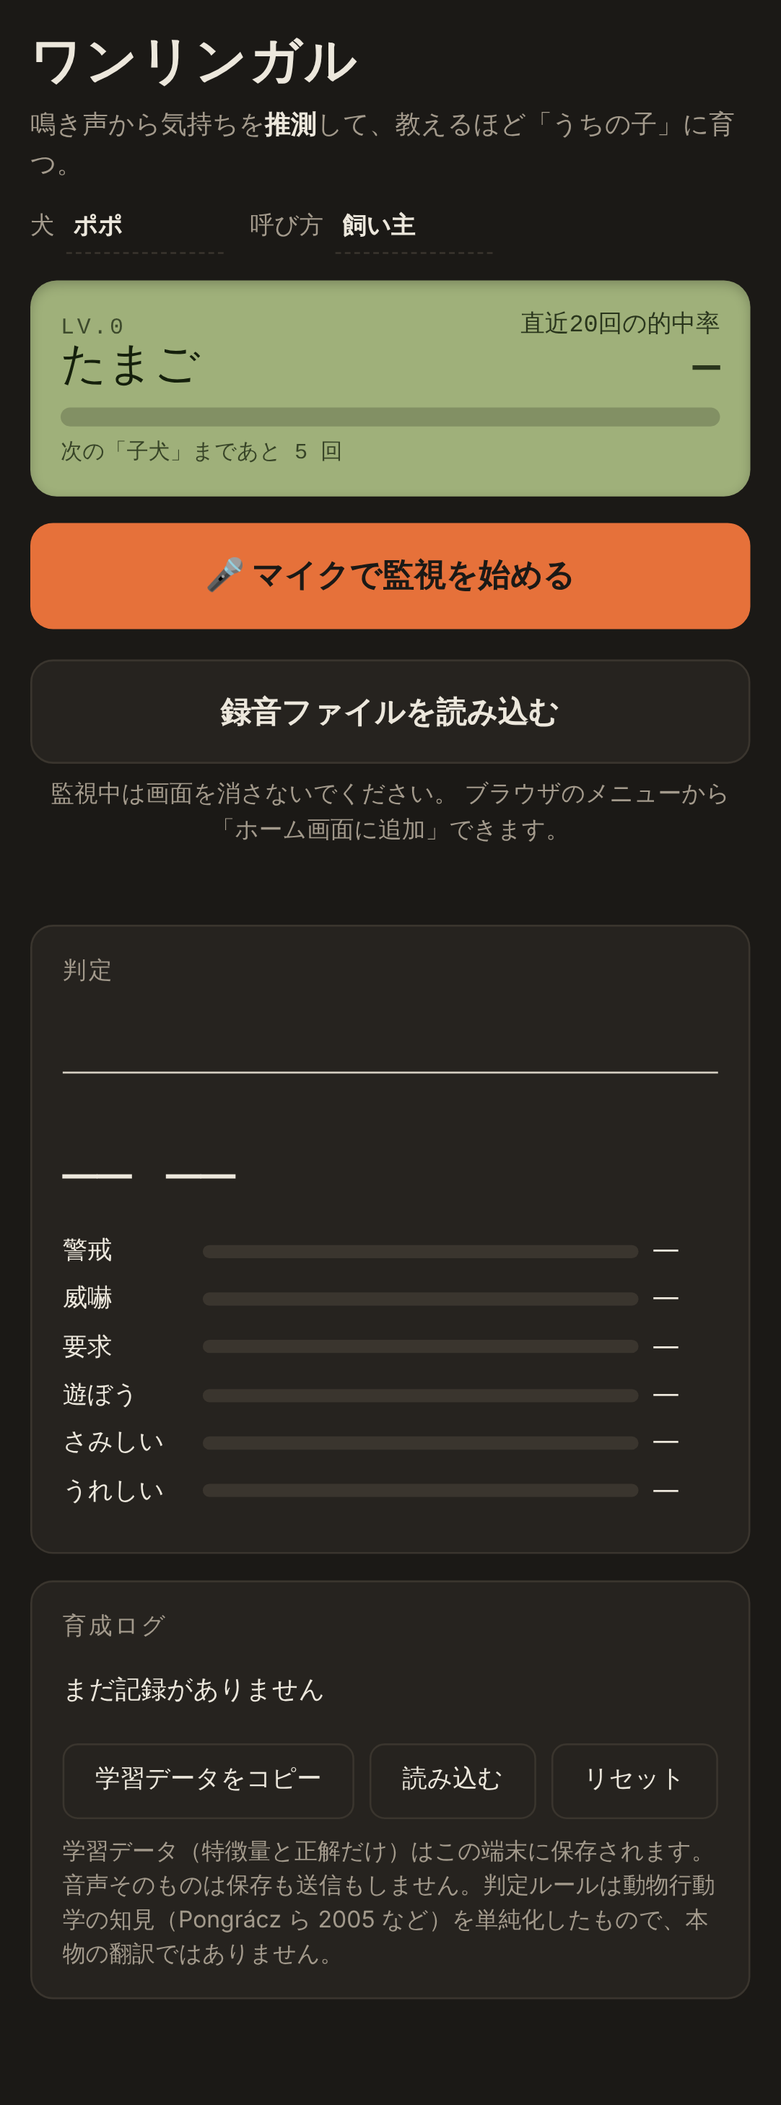
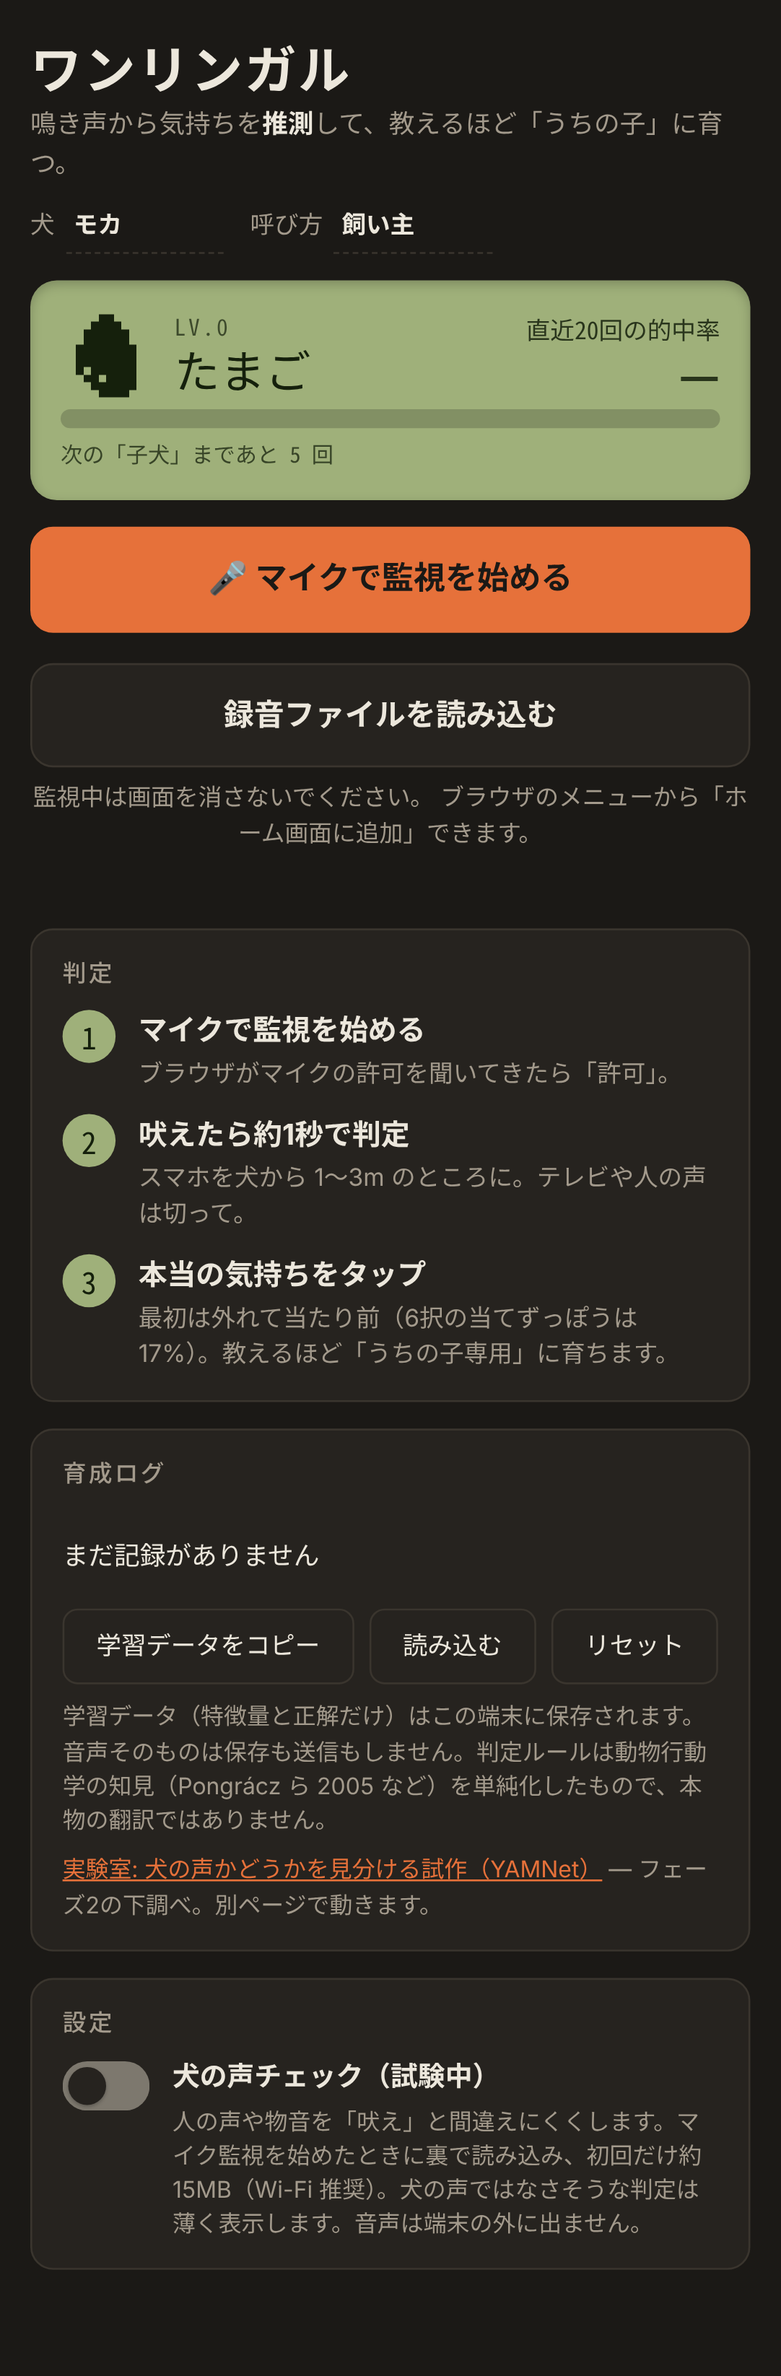
#13b: CC0 5 本の声 1 回ごとの f0・cent・level の表を lab-yamnet に追加。docs/screenshots を E2E の絵で撮り直し（npm run shots、plan #24）
- tests/lab/report.mjs: eventToneReport（f0 が取れた割合・低い/高い・f0 の幅・cent・level dBFS・最大の声からの dB 差）。features-check.mjs の events に level を追加。単体テスト 1 本
- tools/screenshots.mjs + npm run shots: tests/e2e/screenshots/ の絵を docs/screenshots/ にコピー（同じ絵は触らない）。単体テスト 2 本
- tests/e2e: 判定テストで #result の要素スクリーンショット（*-why.png）
- docs/screenshots: 7 枚を「なぜ」・設定トグル入りのいまの画面で更新
- docs/plan.md（#13b、#24）、README、日報 2026-11-13。app/ は無変更（sw.js は wl-v13 のまま）

Claude-Session: https://claude.ai/code/session_01Dz83ZX8t6NGVAwRCujxcXK

diff --git a/docs/plan.md b/docs/plan.md
@@ -38,7 +38,7 @@
 | 11 | CC ライセンスの犬の鳴き声データセット洗い出し | 完了 | `docs/datasets.md`。商用で使えるのは CC0/CC BY のみ。気持ちラベル付きの公開データは実質なし |
 | 12 | 最初の「本物の犬」を本体の判定に通す | 一部完了 | ESC-50 dog 40 本で吠え検出 40/40、特徴量の分布を `docs/accuracy.md` に記録（`tests/lab/features-check.mjs`）。CC0 5 本（pet-decoder-audio-fixtures）はこの作業環境から HF に届かないので Actions 側で取得・実行。NC のデータはリポジトリに入れない（`tests/lab/data/` は gitignore） |
 | 13 | MFCC を特徴量に追加 | 未 | 本物の犬データが数十件たまってから効果を測る |
-| 13b | ルールの見直し（本物 40 本の分布から） | 未（机上確認 2026-11-11、CC0 5 本の長さ・間隔の表 2026-11-12 を追加） | **2026-11-12**: `lab-yamnet` の `features-check.mjs` に、CC0 5 本（くんくん・うなり・息・大型犬・小型犬）の **声 1 回ごとの長さと間隔の分布**（中央値・25–75%、いまの境目 長い ≥710ms／短い ≤590ms／間隔 短い ≤300ms／ゆったり ≥880ms を超える割合、最長）の表を足した（`report.mjs` の `eventDistReport`、単体テスト 1 本）。**同夜の結果（run 43078050401、`docs/accuracy.md` 2026-11-12）: くんくんは 1 回 85ms（最長 309ms）、うなりは 176ms（最長 448ms）で、どちらも吠えより長くない。「長い ≥710ms」に入るのは息の 1 塊（859ms）だけ。→ 長さの境目を寄せても さみしい・威嚇 は出せない。さみしい（クーン声）は長さではなくピッチの動きや音量の小ささ、威嚇はピッチの低さ（うなり 307Hz）で拾う方向。数字を動かすのは正解ラベルが来てから（#13 の MFCC と一緒に）。** 本物の連吠えは間隔がばらつく（gapCv 中央値 0.58）ので「規則的→要求」がほぼ出ない。正解ラベル付きデータが来てから直す。**2026-11-11 の机上確認**（`docs/accuracy.md` 同日）: 本物の分布に合わせた乱数 2 万件で「なぜ」に出る言葉を数えると、**「1回が短い声」が 89%** に出て、「間隔が短い／ゆったり／そろっている」は合わせて 28% しか出ない（本物の間隔 300〜880ms は、短い・ゆったりのどちらにも入らない空白地帯）。「1回が長い声」は 0%（長い＝710ms 以上は本物の吠えにはほぼ無い）ので、ルールだけでは さみしい 0%・威嚇 1% にしかならない（ESC-50 の実測 1/40・1/40 と一致）。直すときの候補: 長さの境目（いま 0.35〜0.95 秒）と間隔の境目（短い ≤300ms／ゆったり ≥880ms）を本物の分布（145ms、509ms）の前後に寄せる。数字は正解ラベルが来てから |
+| 13b | ルールの見直し（本物 40 本の分布から） | 未（机上確認 2026-11-11、CC0 5 本の長さ・間隔の表 2026-11-12、ピッチ・明るさ・音量の表 2026-11-13 を追加） | **2026-11-13**: `features-check.mjs` に、CC0 5 本の **声 1 回ごとの f0・cent・level の分布**（`report.mjs` の `eventToneReport`、単体テスト 1 本）を足した。f0 が取れた割合、f0 の中央値・25–75%、「声が低い ≤320Hz」「声が高い ≥590Hz」に入る割合、f0 の幅（25–75% の差＝ピッチの動きの代わり）、cent と「こもった ≤1300／明るい ≥1600」、level（dBFS）と **同じファイルのいちばん大きい声から何 dB 下か**（録音ごとに音量の基準が違うので、ファイル間ではなくファイル内の大小のばらつきを見る）。`features-result.json` の `events` に `level` を追加。結果は次の `lab-yamnet` run（この push で起動）に出るので、2026-11-14 の日報で `docs/accuracy.md` に写す。判定の数字は変えていない。**2026-11-12**: `lab-yamnet` の `features-check.mjs` に、CC0 5 本（くんくん・うなり・息・大型犬・小型犬）の **声 1 回ごとの長さと間隔の分布**（中央値・25–75%、いまの境目 長い ≥710ms／短い ≤590ms／間隔 短い ≤300ms／ゆったり ≥880ms を超える割合、最長）の表を足した（`report.mjs` の `eventDistReport`、単体テスト 1 本）。**同夜の結果（run 43078050401、`docs/accuracy.md` 2026-11-12）: くんくんは 1 回 85ms（最長 309ms）、うなりは 176ms（最長 448ms）で、どちらも吠えより長くない。「長い ≥710ms」に入るのは息の 1 塊（859ms）だけ。→ 長さの境目を寄せても さみしい・威嚇 は出せない。さみしい（クーン声）は長さではなくピッチの動きや音量の小ささ、威嚇はピッチの低さ（うなり 307Hz）で拾う方向。数字を動かすのは正解ラベルが来てから（#13 の MFCC と一緒に）。** 本物の連吠えは間隔がばらつく（gapCv 中央値 0.58）ので「規則的→要求」がほぼ出ない。正解ラベル付きデータが来てから直す。**2026-11-11 の机上確認**（`docs/accuracy.md` 同日）: 本物の分布に合わせた乱数 2 万件で「なぜ」に出る言葉を数えると、**「1回が短い声」が 89%** に出て、「間隔が短い／ゆったり／そろっている」は合わせて 28% しか出ない（本物の間隔 300〜880ms は、短い・ゆったりのどちらにも入らない空白地帯）。「1回が長い声」は 0%（長い＝710ms 以上は本物の吠えにはほぼ無い）ので、ルールだけでは さみしい 0%・威嚇 1% にしかならない（ESC-50 の実測 1/40・1/40 と一致）。直すときの候補: 長さの境目（いま 0.35〜0.95 秒）と間隔の境目（短い ≤300ms／ゆったり ≥880ms）を本物の分布（145ms、509ms）の前後に寄せる。数字は正解ラベルが来てから |
 | 14 | YAMNet を本体の mic.js の前段に入れる | 実装 ①〜④ 完了（既定オフ）。残り: スマホ実機の処理時間・電池を見てから既定オンの判断 | #9・#10 が済んだので着手できる。設計: モデル読み込みは監視開始後に裏で（約 15MB、初回のみ）、読めていない間とオフライン時は従来どおり音量だけで動く。吠えの塊ごとに犬らしさを出し 0.3 未満は「犬以外の音」として判定しない（履歴にも残さない）。スマホの処理時間を実機で測ってから本番に。**2026-11-04**: 本体が実際に YAMNet に渡す単位＝「吠えの塊」（mic.js と同じ区切り、ESC-50 で犬 72 塊・犬以外 51 塊、平均 1.5 秒）ごとの犬らしさを `lab-yamnet` が表に出すようにした（`clustersFromEvents`、`clusterReport`）。あわせて、くんくん・息のように点が割れる声のために「犬系クラスの合計 dogSum」も並記。結果: 塊で犬 89/97（92%）・犬以外 0/51、**くんくん・息は塊では落ちる**（`docs/accuracy.md` 2026-11-04）。**2026-11-05**: 前の実音を足して最低 2 秒／3 秒にして計測。**2 秒で犬の塊 91/97（94%）・犬以外 0/51** と改善（3 秒は赤ん坊の泣き声を 1 塊拾う）。くんくん・息は広げても落ちる。→ 渡す範囲は「最低 2 秒」に決定、設計メモを下に固めた。**同日**: 実装 ① 完了＝`Listener.contextSec`（2 秒）と `onCluster(x, sr, { wide })` の第 3 引数（単体テスト 4 本。本体の判定・表示は未変更）。**2026-11-06**: 実装 ② 完了＝`app/js/dogcheck.js`（既定オフ。`wl.dogcheck` がオンのときだけ監視開始後に裏で tfjs 4.22.0 とモデルを読み、`wide` を通して犬らしさを出す。読めない・オフは従来どおり）。本体は判定を先に出し、犬らしさは届いたら特徴量の行に「犬らしさ 94%（0.9秒）」と添えるだけ（判定・保存は未変更）。トグル（④）ができるまでの入口は URL の `?dogcheck=on` / `?dogcheck=off`。単体テスト 7 本・E2E 3 本×2 端末（偽の tf で配線を確認）、本物の tfjs・モデルでは `lab-yamnet` が本体のページの中で通す（`tests/lab/dogcheck-probe.mjs`）。塊 1 つの処理時間は Actions のランナーで 2 秒の音に中央値 876 ms（`docs/accuracy.md` 2026-11-06）。本物のモデルでも本体の中で通ることを確認済み（run 42084472735: 読み込み 1.4 秒、犬らしさ 86%＝実験室と同じ、推論 0.8〜1.0 秒、backend は cpu）。**2026-11-07**: 実装 ③ 完了＝犬らしさ 0.3 未満の判定は、出したまま薄くして「犬の声ではないかもしれません」と添え、「吠え ◯回」から外す。捨てない: 飼い主が気持ちをタップしたら犬の声として通常どおり保存し、薄い表示を戻して吠え回数にも戻す（保存する項目は増やしていない）。E2E 1 本×2 端末（偽の tf で犬らしさ 5%）。あわせて `sw.js` を直し、外部オリジンはフォントだけキャッシュ、tfjs・モデルには触らない（設計メモ 7-ii。単体テスト 4 本・E2E 1 本×2 端末）。**2026-11-08**: 実装 ④ 完了＝画面いちばん下の「設定」パネルに「犬の声チェック（試験中）」のトグル（`#dogcheckToggle`。`?dogcheck=on/off` と同じ localStorage `wl.dogcheck` を変える。監視中にオンにすればその場で読み込み、オフにすれば以後の判定に掛けない。状態の一言「読み込んでいます…／準備できています／読み込めませんでした」を下に出す。E2E 1 本×2 端末、見た目 `docs/screenshots/android-chrome-settings.png`）。あわせて SRI（7-iii）完了＝tfjs の `<script>` に `integrity`（`app/lab/yamnet.js` の `TFJS_SRI`、本体と実験室の両方）。CDN の中身が変わればブラウザが読まず「読めなかった」扱いになるだけ。ハッシュは npm の tarball から出し、CDN が同じ中身かは `lab-yamnet` の `tests/lab/sri-check.mjs` が毎回比べる。次: スマホ実機の処理時間（社長）、既定オンの判断。録音ファイル読み込みに掛けるか（7-iv）は 2026-11-09 に検討して**当面やらない**（設計メモ 9） |
 
 ## plan #14 の設計メモ（2026-11-05。YAMNet を本体 mic.js の前段に入れる）
@@ -70,3 +70,4 @@
 | 21 | 文言の見直し（シェアカードの間延び、リンク色） | 完了 | |
 | 22 | 次の品質候補: 判定の「なぜ」説明（どの特徴が効いたか）、読み上げ声の調整、OGP 画像の見直し | 完了（「なぜ」2026-11-09、読み上げ声 2026-11-11、OGP 画像 2026-11-12） | **2026-11-12**: OGP 画像の見直し＝`app/icons/og.png`（1200×630）を、肉球の絵から **マスコット（成犬のドット絵）＋ たまご→子犬→若犬→成犬 の育ち方** に。文言は 名前／一言（「推測」を太字）／6 つの気持ち／無料・登録不要・音声は端末の外に出しません／**「本物の翻訳ではなく、吠え方の特徴からの推測です」を枠付きの目立つ一文に**。生成は `npm run og`（`tools/og-image.mjs`: `app/js/mascot.js` の絵をそのまま使い、本体と同じ色・フォントで HTML を組んで Playwright の Chromium で撮る。フォントは `@fontsource` をローカルに入れれば（package.json には入れない）ネット無しで同じ絵になる）。単体テスト 1 本（HTML に文言とマスコット 5 つが入ること）。**2026-11-11**: 読み上げ声の調整＝`app/js/voice.js`（純粋関数）。端末にある日本語の声（`speechSynthesis.getVoices()`、`voiceschanged` で遅れて届く分も拾う）から、端末内の声（オフラインで鳴る）＞既定の声＞よく使われる名前（Kyoko / O-ren / Google 日本語 / Nanami …）の順で 1 つ選ぶ。無ければ従来どおり `lang='ja-JP'` だけ指定して端末任せ。高さ・速さは気持ちごとに少し変える（従来は全部 pitch 1.4 / rate 1.05 の固定）: 警戒 1.3/1.25、威嚇 0.8/0.9、要求 1.5/1.15、遊ぼう 1.6/1.2、さみしい 1.25/0.85、うれしい 1.7/1.25。声はネットから取りに行かない。単体テスト 5 本、E2E 1 本×2 端末（偽の speechSynthesis に渡した lang・voice・pitch・rate を確認）。実機の声は社長の耳で要確認。**2026-11-09**: 判定のセリフの下に「こう見ました: 間隔がそろっている・声が高い（656Hz）・1回が短い声（122ms）」のように、1 位の気持ちに効いた特徴を効いた順に最大 3 つ出す（`classify.explain()`。見た目 `docs/screenshots/android-chrome-why.png`）。ルールの重みを `WEIGHTS` 表に出して `rules()` と同じ材料（`terms()`）から作るので、数字は従来とまったく同じ（5,000 回の乱数で差 0）。当てはまりが 0.6 未満の「どちらとも言えない」特徴、ピッチが取れていないときの Hz、1 回しか吠えていないときの間隔・回数は挙げない。決め手が無ければ「はっきりした決め手はなく、迷っています」。教えた声が 3 件以上あれば「教えてもらった似た声 5件のうち 4件が「要求」」を 1 行足す（kNN の根拠）。単体テスト 3 本、E2E は既存 3 本に確認を追加 |
 | 23 | 育成ログの気持ち別集計（正解ごとの件数と当たり数をチップで） | 完了 | 2026-11-04。`classify.tally()`、1 件でも出る。E2E・単体テストあり |
+| 24 | `docs/screenshots/` の撮り直し（「なぜ」・設定トグル入りのいまの画面） | 完了 | 2026-11-13。E2E が毎回撮る絵（Pixel 7 相当・iPhone 14 相当、偽マイク）をそのまま docs に置く形にした: `npm run test:e2e && npm run shots`（`tools/screenshots.mjs`。どの絵を置くかは `SHOTS` 表、同じ絵は触らない。単体テスト 2 本）。`*-why.png` は E2E の判定テストが判定パネル `#result` だけを撮る（要素スクリーンショット）。手で撮らないので、画面を変えたら同じ手順で撮り直せる。app/ は触っていない |

diff --git a/docs/daily/2026-11-13.md b/docs/daily/2026-11-13.md
@@ -1,0 +1,35 @@
+# 2026-11-13
+
+（深夜 03:20〜03:50 の自動作業。11-12 の日報「明日やること」の（自動）2 件をそのままやった: 1 件目＝**#13b の続き: CC0 5 本の声 1 回ごとの f0・cent・level の分布を表に**、2 件目＝**plan #22 の次の品質候補 (a)＝`docs/screenshots/` の撮り直し**。app/ は触っていないので `sw.js` の VERSION は wl-v13 のまま。）
+
+## やったこと
+- **#13b の材料（2 枚目の表）: CC0 5 本の声 1 回ごとのピッチ・明るさ・音量**（`tests/lab/report.mjs` の `eventToneReport`、純粋関数、単体テスト 1 本。`features-check.mjs` から呼ぶ）。11-12 の表で「1 回の長さでは さみしい・威嚇 を本物の声から出せない」と分かったので、代わりに「さみしい＝ピッチの動き or 音量の小ささ」「威嚇＝ピッチの低さ」が数字で見えるかを確かめる表。1 本 1 行で、f0 が取れた割合／f0 の中央値・25–75%／「声が低い ≤320Hz」「声が高い ≥590Hz」（いまの「なぜ」の境目）に入る割合／f0 の幅（25–75% の差。ピッチの動きの代わり）／cent と「こもった ≤1300／明るい ≥1600」／level（dBFS）と **同じファイルのいちばん大きい声から何 dB 下か**（録音ごとに音量の基準が違うので、ファイル間で比べず、ファイル内の声の大小のばらつきを見る）。`features-result.json` の `events` に `level` を足した。判定の数字は変えていない。
+  - 結果は `lab-yamnet`（この push で `tests/lab/**` の変更から自動で起動）に出る。この作業環境からは CC0 データに届かないので、**表の中身は明日の自動作業で `docs/accuracy.md` に写す**。手元では合成 fixtures（4 連吠え 654Hz・長声 419Hz）で表の形だけ確認した。
+- **`docs/screenshots/` の撮り直し（plan #24、新規）**: 11-08 に撮った絵のままだった 7 枚を、いまの画面（「なぜ」の「こう見ました」・設定の「犬の声チェック（試験中）」トグル入り）で撮り直した。手で撮らず、**E2E が毎回撮っている絵をそのまま docs に置く**形にした: `npm run test:e2e && npm run shots`（`tools/screenshots.mjs`。どの絵を置くかは `SHOTS` 表、同じ絵なら触らない、`--check` で新旧だけ表示。単体テスト 2 本）。`android-chrome-why.png` は E2E の判定テストが判定パネル `#result` だけを撮るようにした（要素スクリーンショット。中身は 11-08 のものとバイト単位で同じだったので、絵は変わっていない）。README に `npm run shots` を追記。
+- 文書: `docs/plan.md`（#13b、#24 を追加）、README、この日報。
+
+## 数字（的中率・デプロイURL・テスト結果）
+- **気持ちの的中率: 未計測**（正解ラベル付きの本物の犬はまだ 0 件）。今夜も判定の数字は 1 つも変えていない（計測スクリプトと絵だけ）。
+- デプロイURL: https://bunpitsuka.github.io/wanlingual/ （結果は下の「デプロイ結果」）。公開ページの中身は変わらない（app/ 無変更、wl-v13 のまま）。
+- テスト: 単体 **55/55 pass**（+3 本: f0・cent・level の表 1 本、screenshots 2 本）、E2E **34/34 pass**（Pixel 7 相当 17・iPhone 14 相当 17。本数は変わらず、判定テストに要素スクリーンショット 1 行を足しただけ）。
+- 撮り直した絵: 7 枚（Android 5 枚、iPhone 相当 2 枚）。画面が伸びた分、縦が 2916〜4791px → 3292〜5082px。
+
+## デプロイ結果
+- push 後の `deploy-pages` と `lab-yamnet` の結果は最後の報告に書く（この日報の push 時点では未確認）。
+
+## 失敗・詰まったこと
+- 大きな失敗なし。`eventToneReport` の単体テストで、25–75% の計算（`floor(p·n)` 番目を取る流儀）を自分で読み違えて 1 回落とした（4 件中 1 件が 6 dB 下なら 75% 点は 6.0）。期待値の方を直した（関数は正しい）。
+- この作業環境では今夜も `npx playwright install chromium` は使わず、`PLAYWRIGHT_CHROMIUM_EXECUTABLE` で手元の Chromium を指して E2E を 2 周回した（1 周 2 分）。
+- 11-12 の `lab-yamnet` の表の数字（長さ・間隔）は昨夜すでに `docs/accuracy.md` に写してある。今夜足した 2 枚目の表は run を待つ必要があるので、accuracy.md は今夜は触っていない。
+
+## 明日やること
+- （自動）今夜の `lab-yamnet` run の **f0・cent・level の表**を `docs/accuracy.md` に写し、「さみしい＝音量の小ささ or ピッチの動き」「威嚇＝ピッチの低さ」が CC0 5 本で見えたかを 3〜5 行で書く（くんくん 27 回の level が大型犬より何 dB 小さいか、うなり 8 回の f0 が ≤320Hz に何 % 入るか）。数字は変えない。
+- （自動）見えたなら、#13b の「直すときの候補」に **level（音量）を特徴量に足す案**（保存する特徴量が 7 → 8 に増えるので、`store.js` の互換と「音声は端末から出さない」の方針に影響が無いことを設計メモに 5 行で）を書く。見えなければ #13（MFCC）の下調べ（meyda 等を入れずに自前で 13 次元を出す試作の見積もり）を 1 晩ぶん。
+- 社長のスマホで実機確認（お時間のあるときに。持ち越し）: https://bunpitsuka.github.io/wanlingual/ で「セリフを読み上げ」の声と、LINE などに URL を貼ったときの OGP の絵（マスコット入り）。
+
+## 社長に聞きたいこと（あれば）
+- 今夜は新しい判断事項なし（お金・アカウント・投稿・個人情報に関わるものは発生していません）。
+- （持ち越し）アフィリエイト ID は `app/affiliate.json` を空のままにしています。急ぎません。
+
+## AI費用（概算）
+- 今夜の自動作業（約 30 分、うち E2E 2 周 約 4 分。実装・テスト・文書）: API 従量換算で 約 ¥300〜600。claude.ai の定額プラン内なら追加請求なし。GitHub Actions は公開リポジトリなので無料枠（deploy-pages 1〜2 回、lab-yamnet 1 回 約 22 分）。
